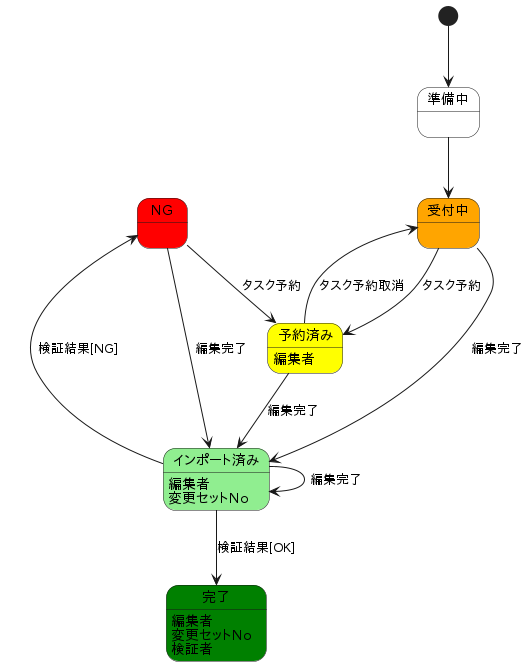
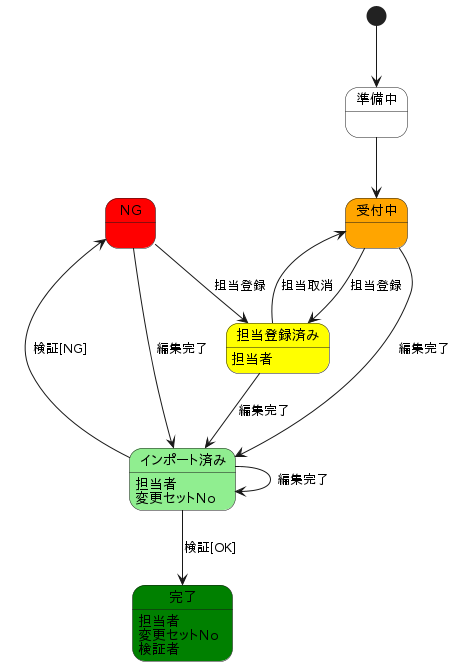
名称変更：「タスク予約」→「担当登録」など

diff --git a/src/main/resources/templates/meshes.html b/src/main/resources/templates/meshes.html
@@ -50,7 +50,7 @@
                       <th th:text="#{meshcode}"></th>
                       <th>version</th>
                       <th th:text="#{path}"></th>
-                      <th th:text="#{username}"></th>
+                      <th th:text="#{editor}"></th>
                       <th th:text="#{validator}"></th>                      
                       <th th:text="#{operation}"></th>
                     </tr>

diff --git a/src/main/resources/templates/tasks.html b/src/main/resources/templates/tasks.html
@@ -98,7 +98,7 @@
                     <tr>
                       <th th:text="#{updateTime}"></th>
                       <th th:text="#{status}"></th>
-                      <th th:text="#{username}"></th>
+                      <th th:text="#{editor}"></th>
                       <th th:text="#{changeSet}"></th>
                       <th th:text="#{validator}"></th>
                       <th th:text="#{operation}"></th>

diff --git a/src/main/resources/templates/meshlist.html b/src/main/resources/templates/meshlist.html
@@ -36,7 +36,7 @@
                       <th th:text="#{meshcode}"></th>
                       <th>version</th>
                       <th th:text="#{path}"></th>
-                      <th th:text="#{username}"></th>
+                      <th th:text="#{editor}"></th>
                       <th th:text="#{validator}"></th>
                       <th th:text="#{operation}"></th>
                     </tr>

diff --git a/src/main/resources/templates/task.html b/src/main/resources/templates/task.html
@@ -62,7 +62,7 @@
                       <td></td>
                     </tr>
                     <tr>
-                      <td th:text="#{username}"></td>
+                      <td th:text="#{editor}"></td>
                       <td><a th:text="*{username}" th:href="@{https://www.openstreetmap.org/user/{user}(user=*{username})}"></a></td>
                       <td></td>
                     </tr>

diff --git a/src/main/resources/templates/task_done.html b/src/main/resources/templates/task_done.html
@@ -62,7 +62,7 @@
                       <td></td>
                     </tr>
                     <tr>
-                      <td th:text="#{username}"></td>
+                      <td th:text="#{editor}"></td>
                       <td th:text="*{username}"></td>
                       <td></td>
                     </tr>

diff --git a/src/main/resources/templates/task_valid.html b/src/main/resources/templates/task_valid.html
@@ -62,7 +62,7 @@
                       <td></td>
                     </tr>
                     <tr>
-                      <td th:text="#{username}"></td>
+                      <td th:text="#{editor}"></td>
                       <td th:text="*{username}"></td>
                       <td></td>
                     </tr>

diff --git a/src/main/java/osm/surveyor/task/user/config/SecurityConfig.java b/src/main/java/osm/surveyor/task/user/config/SecurityConfig.java
@@ -13,7 +13,6 @@ import org.springframework.security.crypto.password.PasswordEncoder;
 import org.springframework.security.web.util.matcher.AntPathRequestMatcher;
 
 import lombok.RequiredArgsConstructor;
-import osm.surveyor.task.util.Role;
 
 @RequiredArgsConstructor
 @Configuration
